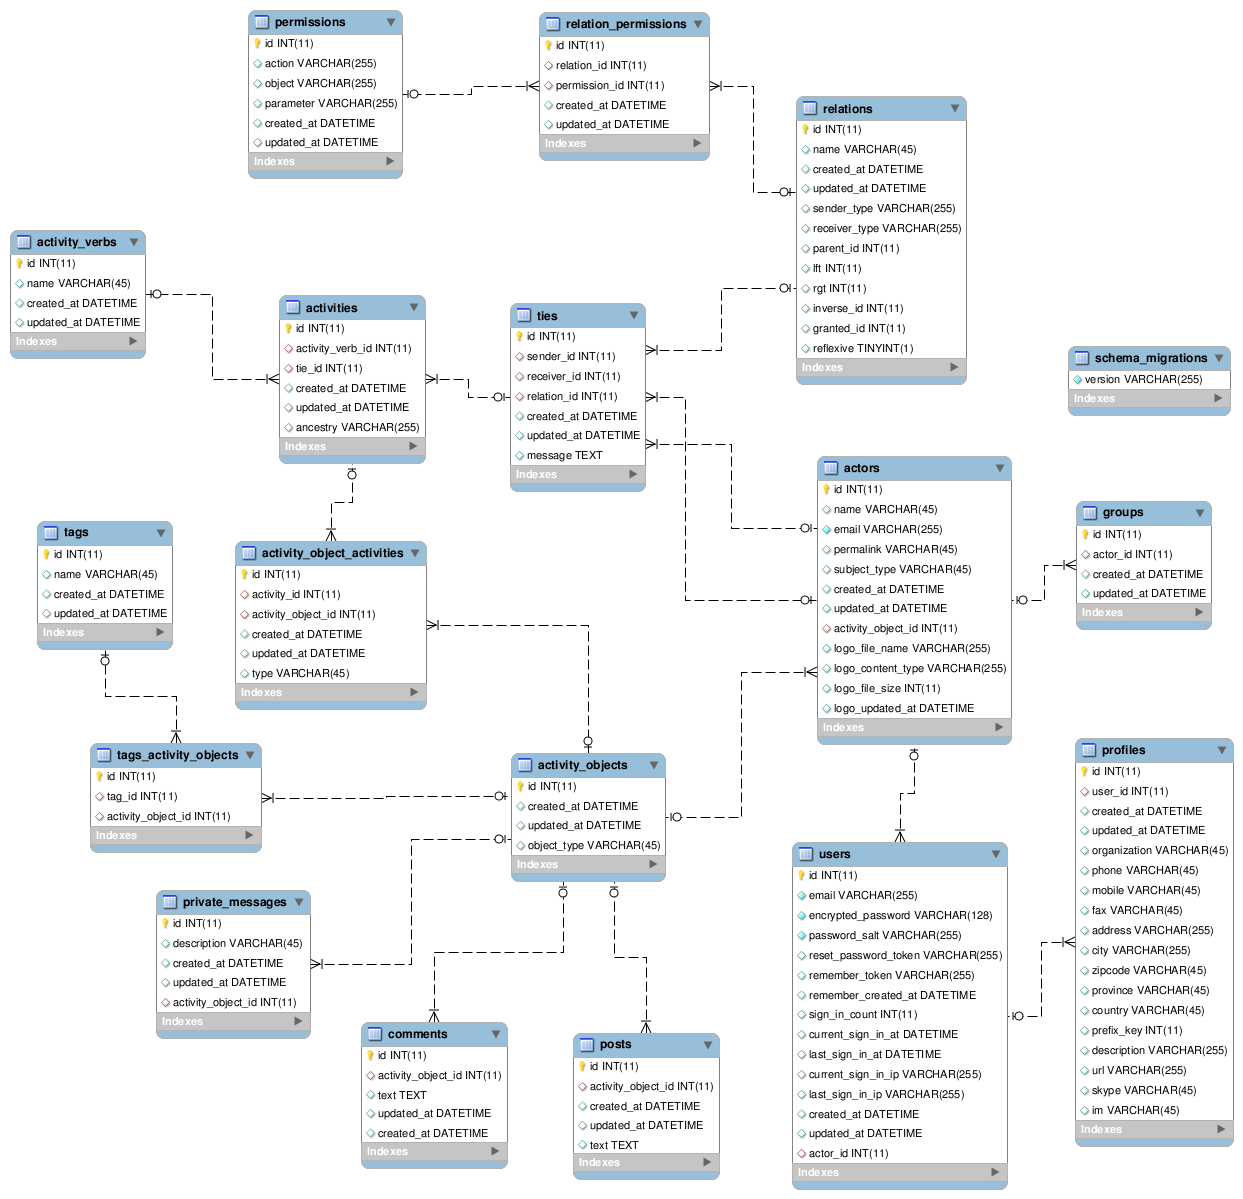
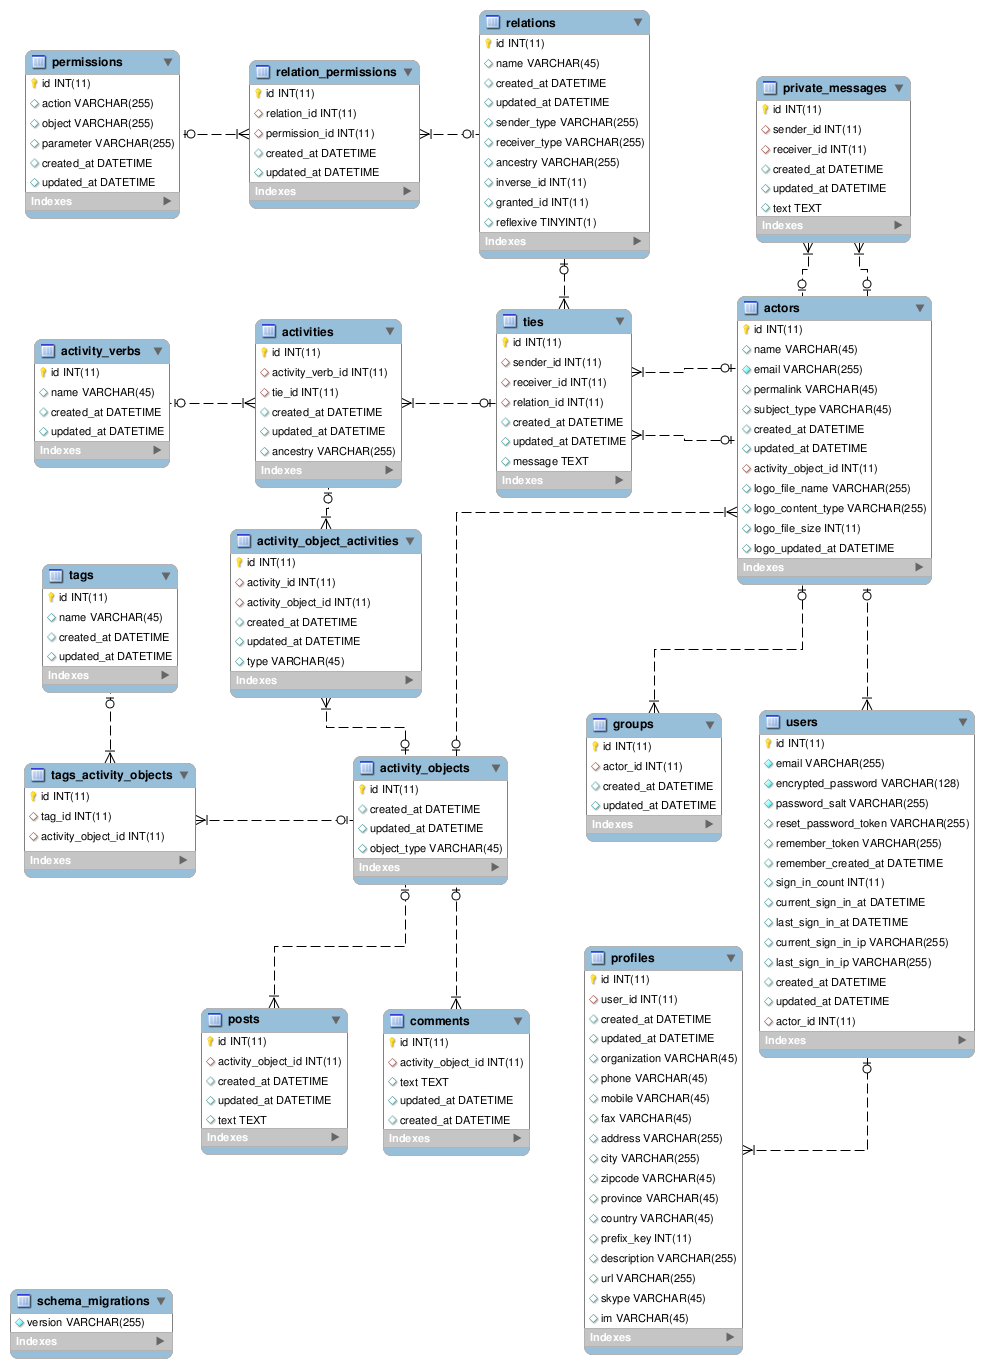
PrivateMessages schema

Changed region(s): [[0.0, 0.0, 1.0, 1.0], [0.0, 0.9258, 0.1829, 1.0], [0.7927, 0.8332, 0.8232, 0.8641]]

diff --git a/db/schema.rb b/db/schema.rb
@@ -96,6 +96,17 @@ ActiveRecord::Schema.define(:version => 20100820092637) do
 
   add_index "posts", "activity_object_id"
 
+  create_table "private_messages", :force => true do |t|
+    t.integer  "sender_id"
+    t.integer  "receiver_id"
+    t.datetime "created_at"
+    t.datetime "updated_at"
+    t.text     "text"
+  end
+
+  add_index "private_messages", "sender_id"
+  add_index "private_messages", "receiver_id"
+
   create_table "profiles", :force => true do |t|
     t.integer  "user_id"
     t.datetime "created_at"
@@ -207,6 +218,9 @@ ActiveRecord::Schema.define(:version => 20100820092637) do
 
   add_foreign_key "posts", "activity_objects", :name => "posts_on_activity_object_id"
 
+  add_foreign_key "private_messages", "actors", :name => "private_messages_on_sender_id", :column => "sender_id"
+  add_foreign_key "private_messages", "actors", :name => "private_messages_on_receiver_id", :column => "receiver_id"
+
   add_foreign_key "profiles", "users", :name => "profiles_on_user_id"
 
   add_foreign_key "relation_permissions", "relations", :name => "relation_permissions_on_relation_id"
@@ -215,9 +229,9 @@ ActiveRecord::Schema.define(:version => 20100820092637) do
   add_foreign_key "tags_activity_objects", "activity_objects", :name => "tags_activity_objects_on_activity_object_id"
   add_foreign_key "tags_activity_objects", "tags", :name => "tags_activity_objects_on_tag_id"
 
-  add_foreign_key "ties", "actors", :name => "ties_on_receiver_id", :column => "receiver_id"
-  add_foreign_key "ties", "actors", :name => "ties_on_relation_id", :column => "sender_id"
-  add_foreign_key "ties", "relations", :name => "ties_on_sender_id"
+  add_foreign_key "ties", "actors",    :name => "ties_on_sender_id",   :column => "sender_id"
+  add_foreign_key "ties", "actors",    :name => "ties_on_receiver_id", :column => "receiver_id"
+  add_foreign_key "ties", "relations", :name => "ties_on_relation_id"
 
   add_foreign_key "users", "actors", :name => "users_on_actor_id"
 end
